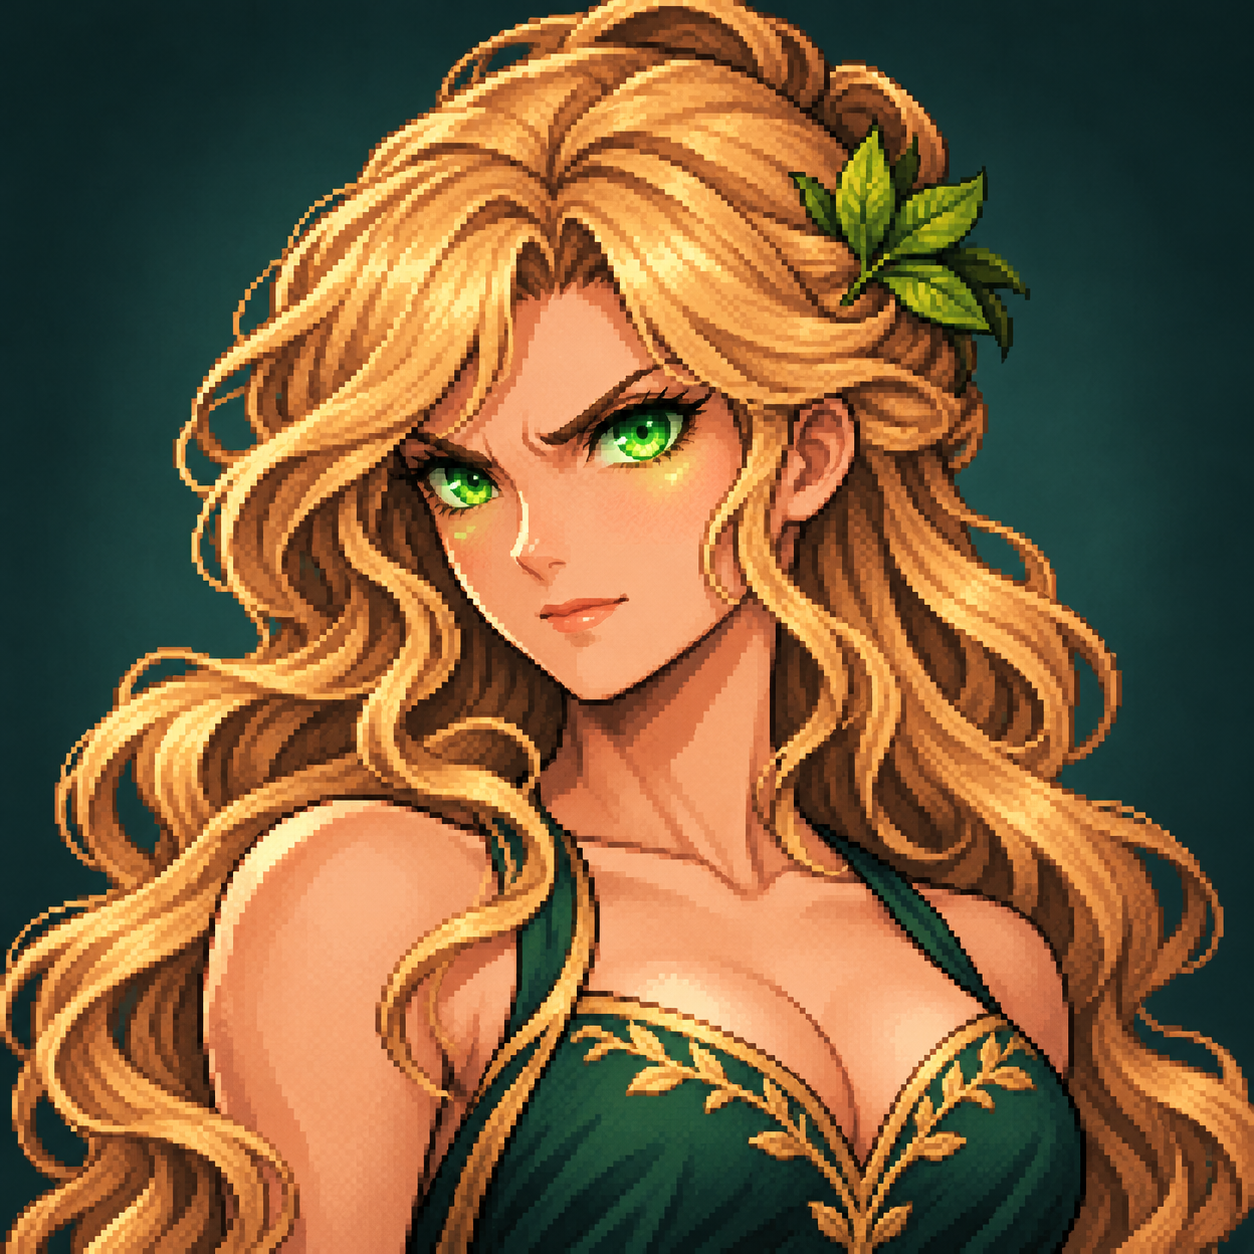
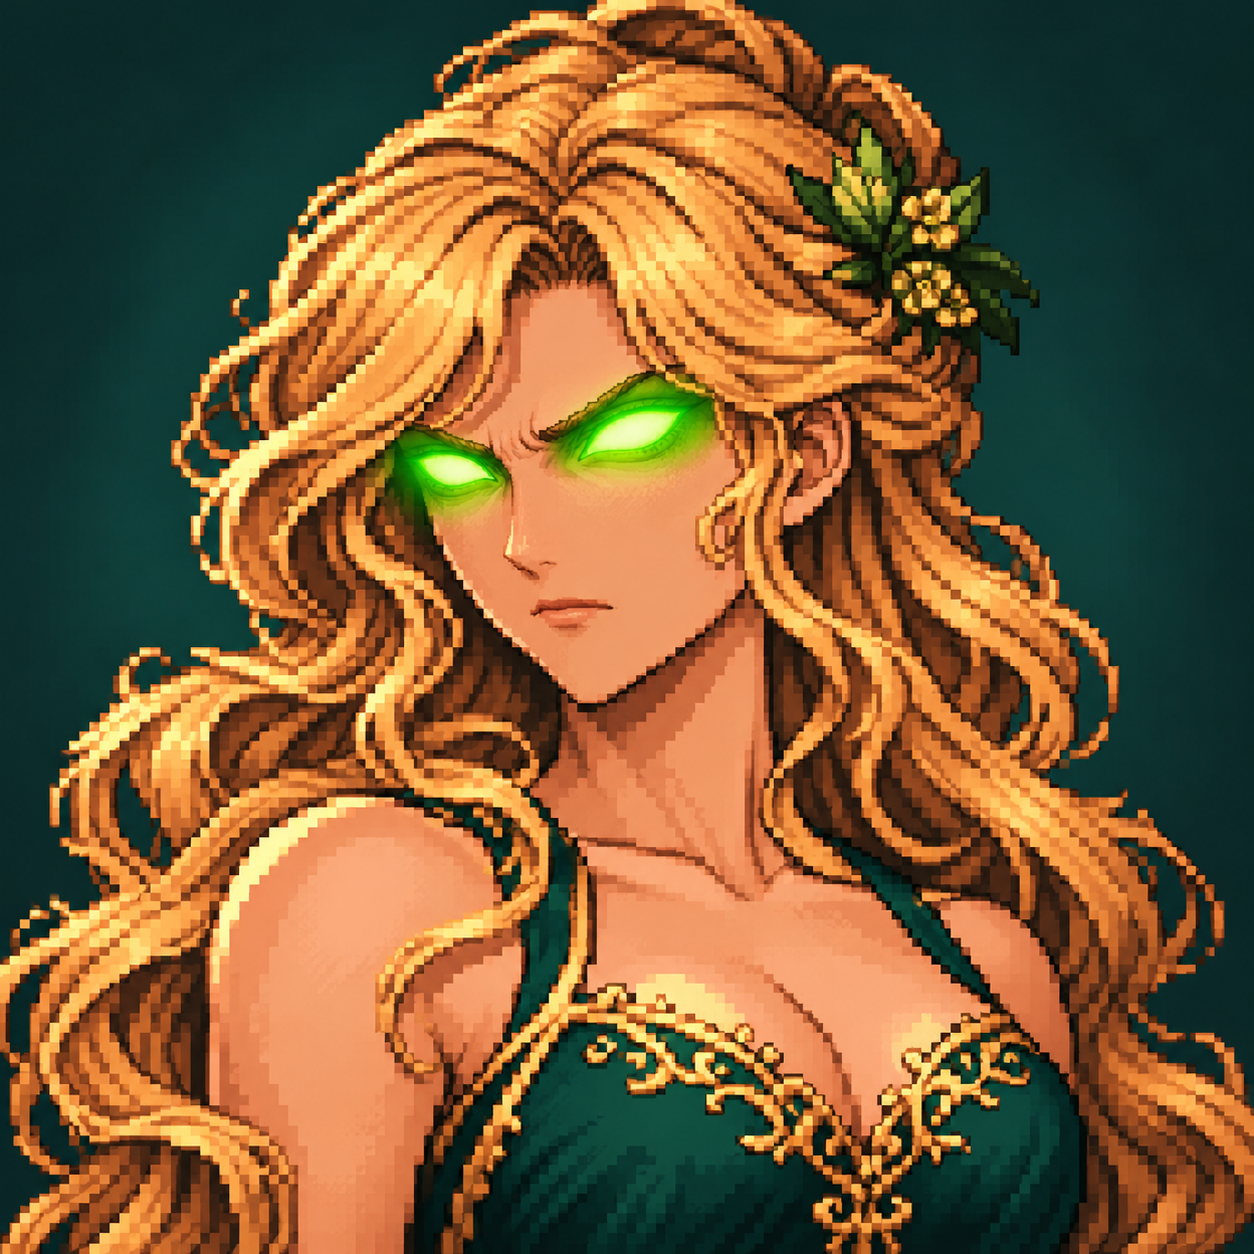
Replace Rhea cinematic portrait with approved glowing green eyes

diff --git a/tools/build_ice_duel_women.py b/tools/build_ice_duel_women.py
@@ -108,9 +108,9 @@ def build():
     reaper+=export('ice_reaper','reaper_views_generated.png',4,2,
         [(f'sword_hold_{name}',[index],view) for index,(name,view) in enumerate(directions)],.38)
     portraits=OUTPUT/'portraits';portraits.mkdir(parents=True,exist_ok=True)
-    portrait=Image.open(SOURCE/'rhea_portrait_generated.png').convert('RGB')
-    portrait=portrait.resize((96,96),Image.Resampling.NEAREST).quantize(colors=128,dither=Image.Dither.NONE).convert('RGB')
-    portrait.save(portraits/'rhea_awakening.png',optimize=True)
+    # Keep the approved glowing-eye portrait intact; the dialogue UI scales it.
+    portrait=Image.open(SOURCE/'rhea_portrait_generated.png')
+    shutil.copyfile(SOURCE/'rhea_portrait_generated.png',portraits/'rhea_awakening.png')
     scene_portrait=ROOT/'assets/story/ice_reaper_opening/portraits/rhea_awakening.png'
     scene_portrait.parent.mkdir(parents=True,exist_ok=True)
     shutil.copyfile(portraits/'rhea_awakening.png',scene_portrait)
@@ -123,8 +123,8 @@ def build():
         references={name:sha(ROOT/name) for name in references},
         operation='Equal-cell extraction, alpha threshold140,128-color registration,fixed nearest scaling,foot registration only; no pose deformation or painted facial features.',
         frames=dict(rhea=rhea,ice_reaper=reaper),
-        portrait=dict(file='portraits/rhea_awakening.png',canvas=[96,96],sha256=sha(portraits/'rhea_awakening.png'),
-                      basis='Approved Rhea design sheet; no prior Rhea dialogue portrait existed'))
+        portrait=dict(file='portraits/rhea_awakening.png',canvas=list(portrait.size),sha256=sha(portraits/'rhea_awakening.png'),
+                      basis='Approved image_gen portrait with green magic filling both eye sockets; copied without pixel changes'))
     (OUTPUT/'provenance.json').write_text(json.dumps(provenance,indent=2)+'\n')
     print(json.dumps(dict(rhea_frames=len(rhea),reaper_frames=len(reaper),portrait=str(portraits/'rhea_awakening.png'))))
 
